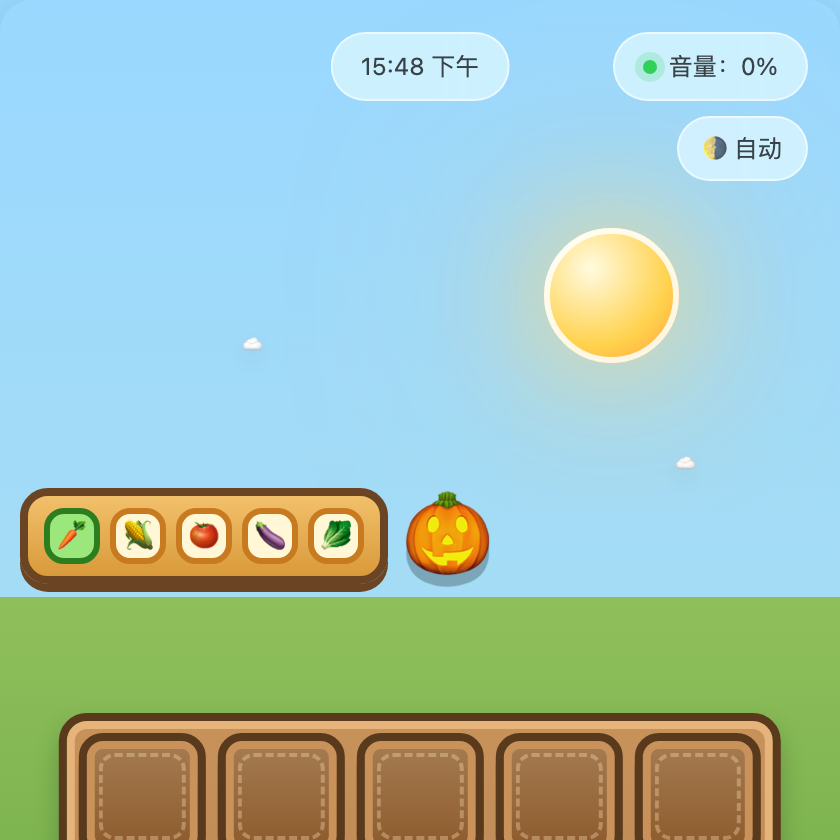
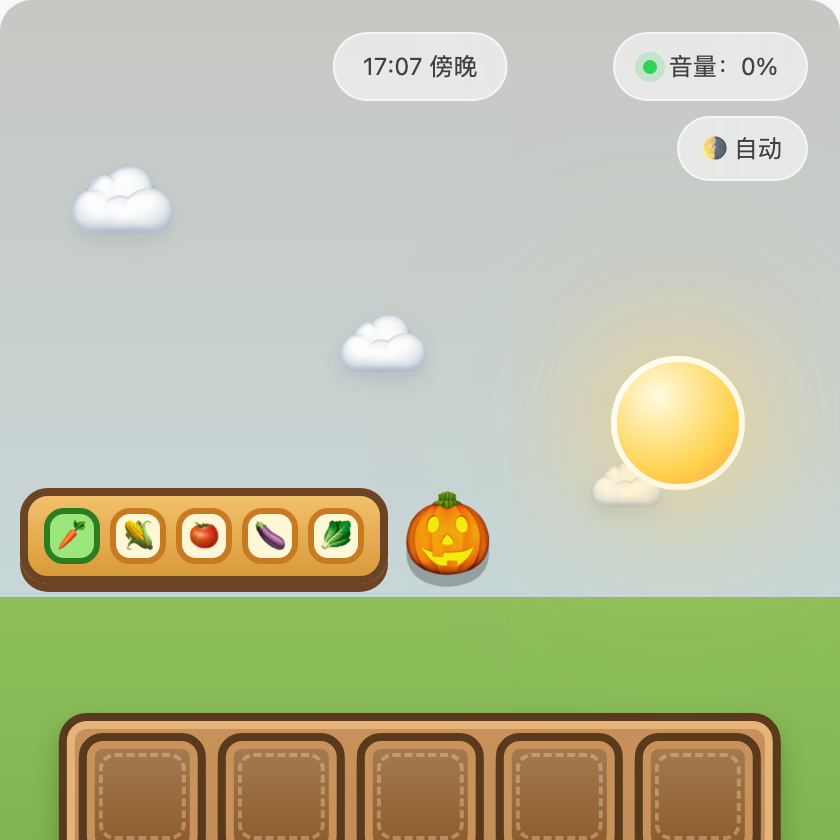
fix: make the farm clouds big enough to see
The published farm still had the 6px clouds. It is now 1.1.2, matching the merged page, with the preview retaken.

diff --git a/scenes/farm/scene.html b/scenes/farm/scene.html
@@ -141,16 +141,17 @@
   /* 云朵 */
   .cloud {
     position: absolute;
-    font-size: 8%;
+    font-size: 54px;
+    line-height: 1;
     color: #fff;
     text-shadow: 0 4px 10px rgba(0, 0, 0, 0.08);
     animation: cloudMove linear infinite;
     z-index: 1;
   }
 
-  .cloud.c1 { top: 12%; left: -15%; animation-duration: 45s; }
-  .cloud.c2 { top: 22%; left: -18%; font-size: 7%; animation-duration: 60s; animation-delay: -20s; }
-  .cloud.c3 { top: 30%; left: -14%; font-size: 6%; animation-duration: 52s; animation-delay: -35s; }
+  .cloud.c1 { top: 10%; left: -20%; animation-duration: 45s; }
+  .cloud.c2 { top: 20%; left: -24%; font-size: 46px; animation-duration: 60s; animation-delay: -20s; }
+  .cloud.c3 { top: 30%; left: -18%; font-size: 38px; animation-duration: 52s; animation-delay: -35s; }
 
   @keyframes cloudMove {
     from { transform: translateX(0); }
